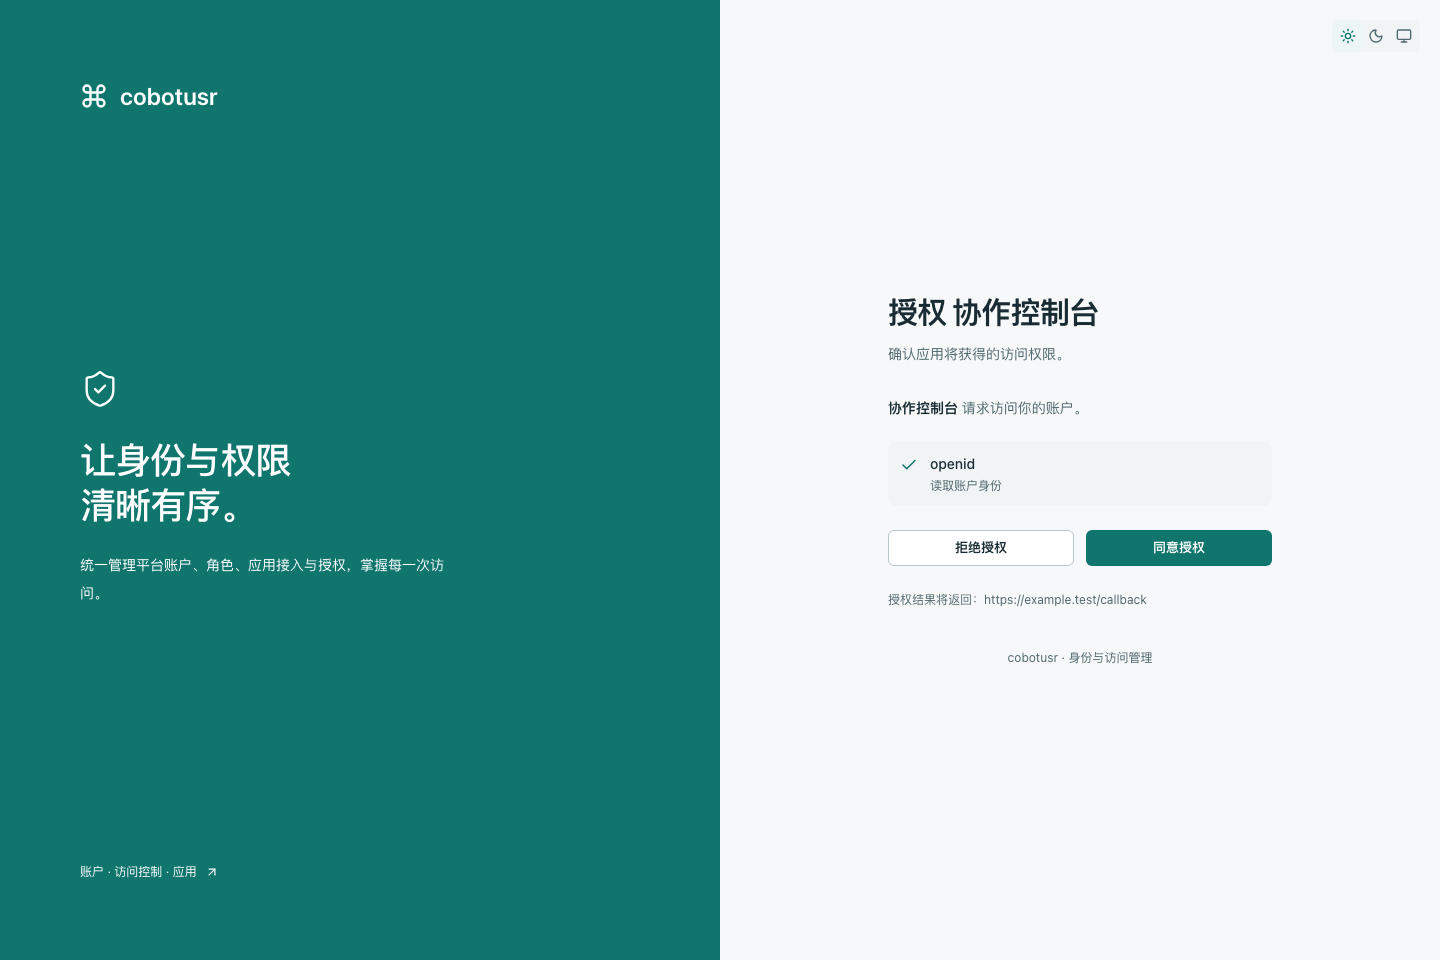
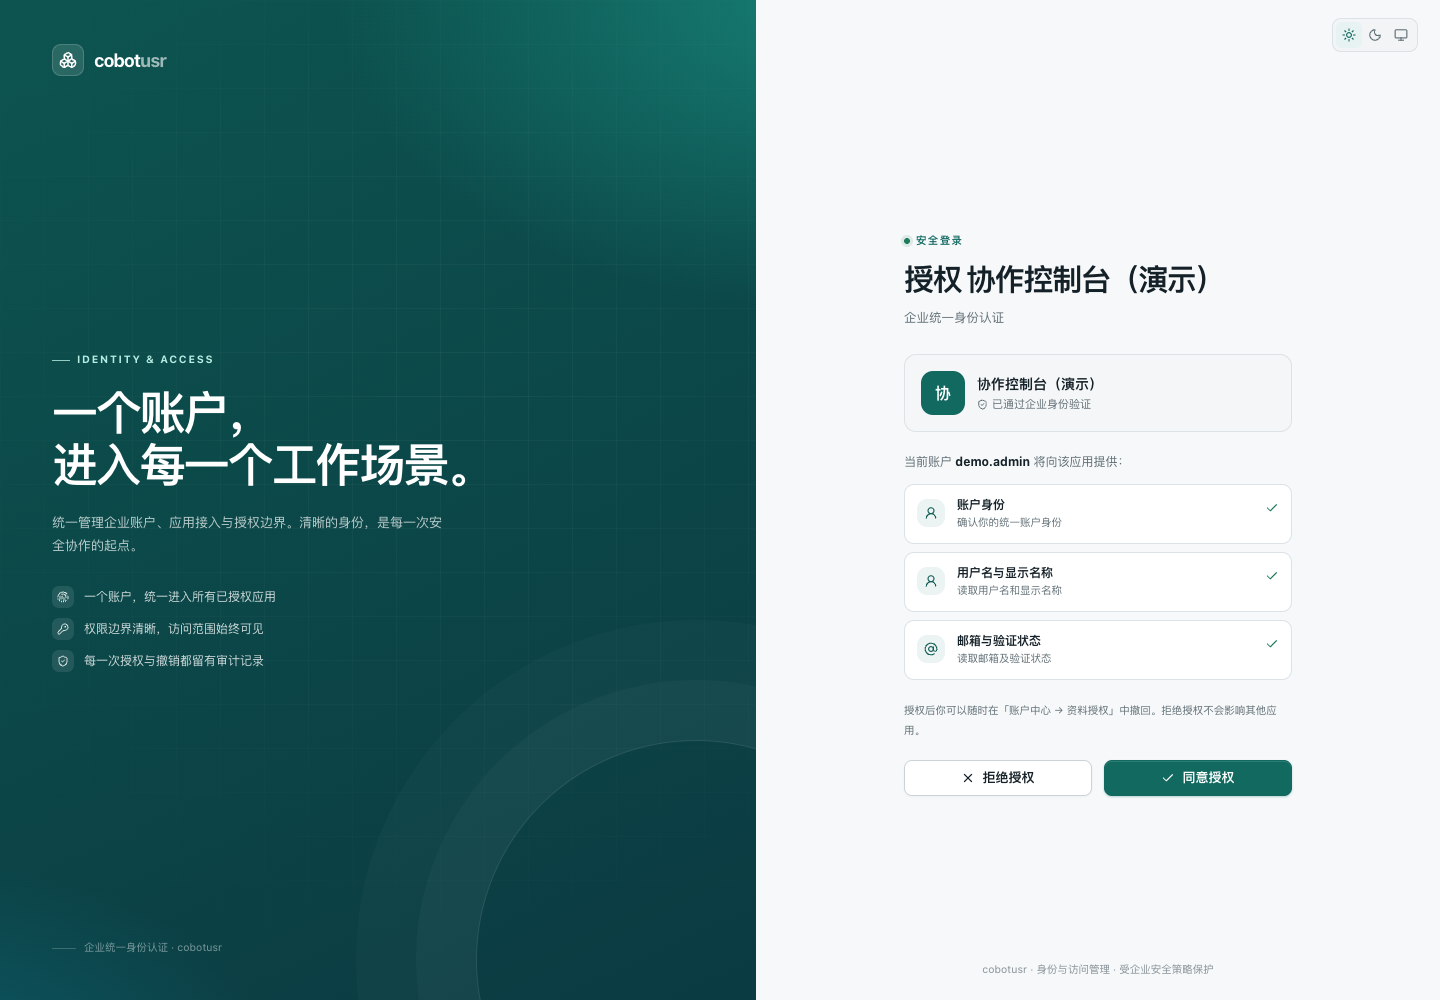
docs(website): refresh console screenshots and bilingual guides

diff --git a/website/src/styles/custom.css b/website/src/styles/custom.css
@@ -194,7 +194,7 @@
 
 @media (max-width: 800px) {
   .split {
-    grid-template-columns: 1fr;
+    grid-template-columns: minmax(0, 1fr);
   }
 }
 

diff --git a/website/README.md b/website/README.md
@@ -75,3 +75,36 @@ is also declared in `wrangler.jsonc`.
 pnpm --filter @cobotrix/website check
 pnpm --filter @cobotrix/website build
 ```
+
+## Console screenshots
+
+The landing pages and bilingual `guides/console` pages share screenshots in
+`src/assets/console-*.png`. They show the current Vue UI with **fictional demo
+responses**, not a production tenant. Capture baseline: 2026-11-12, Chinese UI,
+1440 × 1000, light theme, Asia/Shanghai timezone. The capture clock is fixed for
+repeatability; displayed expiry times and counts are examples.
+
+To refresh them after a console redesign, start the frontend in one terminal:
+
+```bash
+pnpm --filter @cobotweb/cobotusr exec vite --host 127.0.0.1 --port 5174 --strictPort
+```
+
+Then run from the repository root (requires the frontend's Playwright dependency
+and its Chromium browser, or an installed Chrome):
+
+```bash
+node website/scripts/capture-console.mjs
+# Use installed Google Chrome instead of Playwright Chromium:
+CAPTURE_CHROME_CHANNEL=chrome node website/scripts/capture-console.mjs
+```
+
+The script isolates each page, intercepts API requests, blocks writes and external
+requests, and rejects unexpected API calls or page errors. It never authenticates
+to a running backend. The UI is rendered directly without editing the DOM.
+Review all five images before publishing, update both languages' captions and
+instructions together, then run the checks above. If the API/UI changes, update
+the fixture shapes and readiness assertions in the script as part of the refresh.
+
+The website currently requires Node.js **22.23.4 or newer**, as required by the
+installed Astro version; an earlier Node 22 release cannot run these checks.
